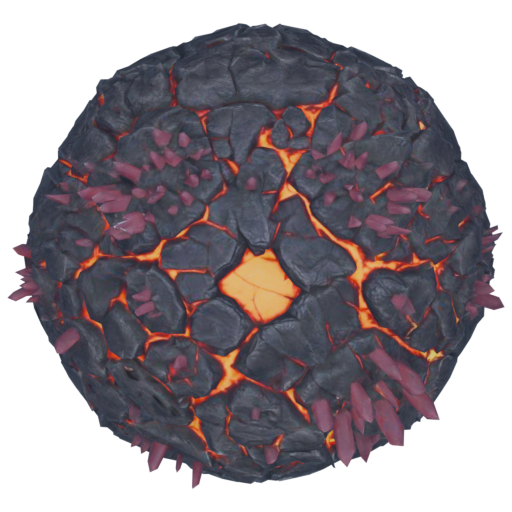
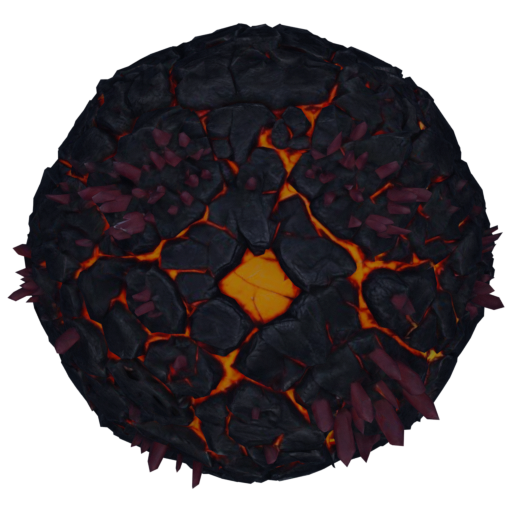
El horno del Skarnox baja a su luz propia y el halo vuelve a subir
Sol 0.4 (0.25 del bicho por el 1.6 del axial), ambiente 0.1625, y la
fuerza del halo de 0.9 a 1.6: con menos luz exterior el derrame del glow
pesa mas. Media 0.332 contra 0.333 de alta.

diff --git a/README.md b/README.md
@@ -532,8 +532,8 @@ vez de en toda la superficie.
 | `CUERNO_DESDE` | 0,13 | 0,12 | **0 — sin cuernos** | 0 — solo raíz |
 | `GLOW_NUCLEO` | 0,09 | **0,22** | 0,09 | 0,09 |
 | `GLOW_UMBRAL` | 0,25 | 0,25 | 0,25 | **0,05** |
-| `GLOW_RADIO` / `GLOW_FUERZA` | 0,06 / 1,8 | **0,09 / 3,8** | 0,06 / 1,8 | **0,20 / 0,9** |
-| `HORNO_SOL` / `HORNO_AMBIENTE` | 1,35 / 0,65 | 1,0 / 0,45 | 1,6 / 0,65 | 1,6 / 0,65 |
+| `GLOW_RADIO` / `GLOW_FUERZA` | 0,06 / 1,8 | **0,09 / 3,8** | 0,06 / 1,8 | **0,20 / 1,6** |
+| `HORNO_SOL` / `HORNO_AMBIENTE` | 1,35 / 0,65 | 1,0 / 0,45 | 1,6 / 0,65 | **0,4 / 0,1625 — luz propia** |
 | ganancia de emisión | 1,0 | 1,0 | 1,0 | **2,0** |
 | emisión derivada | 38-47 % de la textura | 16,5 % | 5,4 % real (ver abajo) | grietas + núcleo, p99 0,54 |
 | `cuernos_grados` (cliente) | 14 | **0 — no se lee** | — | — |
@@ -584,8 +584,13 @@ Cómo se sacó cada uno:
   contra 0,450 de alta con glow al pico (pulse 2,6), clavado. Desde el v2 ya no
   es bola perfecta (alto 1,353): entra «ya en el plano» con eje fino real y las
   seis vistas confirman el cráter al alto sin girar nada. El resto
-  de su intensidad vive en el JSON: suelo del pulso en 1,2 (la lava no se apaga)
-  y el pase de `lava` que viaja, solo de alta.
+  de su intensidad vive en el JSON: suelo del pulso en 1,2 (la lava no se apaga),
+  el pase de `lava` que viaja (solo de alta), y desde ago-2026 el bloque **`luz`**
+  — la excepción por bicho a la luz del mundo: el Skarnox va a **un cuarto** del
+  mundo (sol 0,25, ambiente 0,1625) para leerse autoiluminado. El horno lo espeja
+  (sol 0,4 = 0,25 × 1,6 axial, ambiente igual) y con la base oscura el halo tuvo
+  que volver a subir a **1,6**: el derrame del glow pesa más cuanto menos luz
+  exterior hay. Media 0,332 contra 0,333 de alta.
 
 ### Naves: los anclajes de motores y cañones
 
